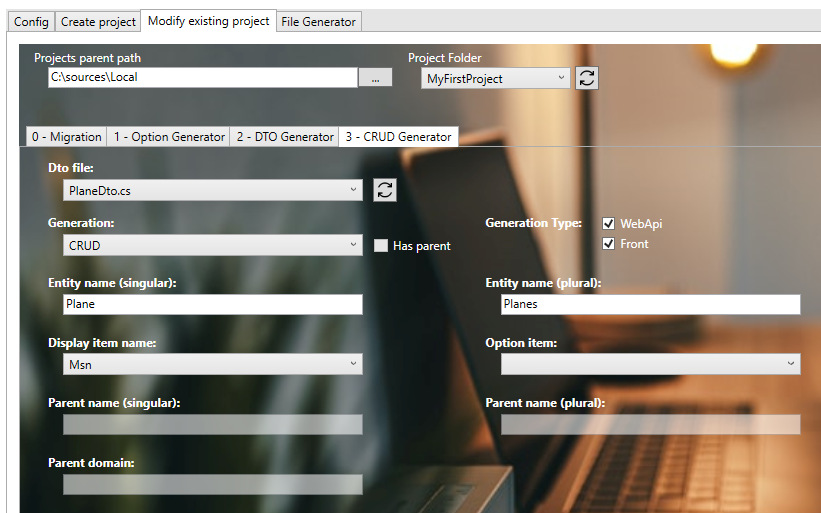
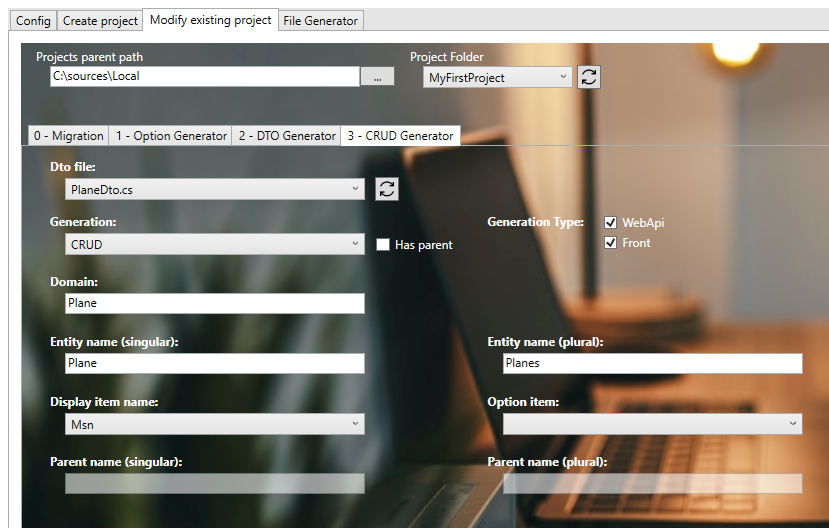
Adapt CRUD generator documentation

diff --git a/docs/30-BIAToolKit/50-CreateCRUD.md b/docs/30-BIAToolKit/50-CreateCRUD.md
@@ -33,23 +33,35 @@ Choose items you want to generate for the CRUD:
    * Front: Front (selected by default)
 * Generation Type: (minimum a choice is mandatory)
    *  CRUD
-   *  Option
-   *  (and Team in the future)
+   *  CRUD (with parent)
+   *  Team
 
 ![CRUDGeneration](../Images/BIAToolKit/CRUDGeneration.PNG)
 
-## 3. CRUD name
+## 3. Parent (not mandatory)
+By selecting CRUD (with parent) the checkbox "Has Parent" will be automatically checked. 
+When selecting Team generation type, you can choose to activate or not the Has Parent checkbox.
+
+This checkbox enable mechanisms that will automatically link your CRUD to generate to the parent. 
+You will need to fill the fields Parent Name singular and plural at the bottom of the form.
+
+## 4. Domain
+The domain associated to your CRUD.
+
+When Has Parent is checked, the domain should be the parent domain.
+
+## 5. CRUD name
 Singular entity name is fill up by default but you can change it.
 You need to complete the plural name before generation.
 
 ![CRUDName](../Images/BIAToolKit/CRUDName.PNG)
 
-## 4. Display item
+## 6. Display item
 On associated combobox, choose the field you want to display on front page.
 
 ![DisplayItem](../Images/BIAToolKit/SelectDisplayItem.PNG)
 
-## 5. Option (not mandatory)
+## 7. Option (not mandatory)
 __*Option Generation Type must not be checked.*__
 
 It is possible to generate link Option with the CRUD. On associated combobox, choose 1 or more option previously generated.
@@ -58,7 +70,9 @@ It is possible to generate link Option with the CRUD. On associated combobox, ch
 
 *This field is not mandatory to generate a CRUD.*
 
-## 6. Generation
+##
+
+## 8. Generation
 By clicking on the button 'Generate', CRUD files are generated automatically on project.
 
 > At first CRUD generation on the project, an historic file is made on project folder (*CrudGeneration.bia*).

diff --git a/docs/10-Introduction/30-TryIt/30-CreateYourFirstCRUD.md b/docs/10-Introduction/30-TryIt/30-CreateYourFirstCRUD.md
@@ -251,13 +251,16 @@ Update-DataBase -Context DataContext
 * Verify 'Planes' table is created in the database.
 
 8. Automatically CRUD generation   
-We will use the BIAToolkit to finalize 'Plane' CRUD generation (back-end + front-end).  
+    
+For more informations about creating a CRUD, see [Create a CRUD with BIAToolkit documentation](../../30-BIAToolKit/50-CreateCRUD.md)
+
 * Start the BIAToolKit and go on "Modify existing project" tab*
 * Set the projects parent path and choose your project
 * Go to tab "3 - CRUD Generator"
 * Choose Dto file: *PlaneDto.cs*
 * Check "WebApi" and "Front" for Generation
 * Check "CRUD" for Generation Type
+* Verify and adapt Domain name
 * Verify "Entity name (singular)" value: *Plane*
 * Set "Entity name (plural)" value: *Planes*
 * Choose "Display item": *Msn*
@@ -271,7 +274,7 @@ We will use the BIAToolkit to finalize 'Plane' CRUD generation (back-end + front
 * Rebuild solution
 * Project will be run, launch IISExpress to verify it. 
 
-10.    Finalize Angular generation
+10.     Finalize Angular generation
 * Run VS code and open the folder 'C:\Sources\Test\MyFirstProject\Angular'
 * Launch command on terminal 
 ```ps
@@ -285,7 +288,7 @@ npm start
 * Open web navigator on address: *http://localhost:4200/* to display front page
 * Click on *"APP.PLANES"* tab to display 'Planes' page.
 
-11.    Add traduction
+11.     Add traduction
 * Open 'src/assets/i18n/app/en.json' and add:
 ```json
   "app": {
